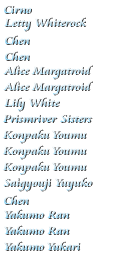
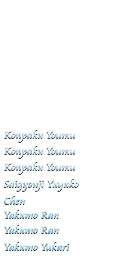
eastern_name_order_hepburn and script_latin support for the result00.png, stringdefs.js and char_def.act.jdiff files (#78)

Changed region(s): [[0.0312, 0.0, 0.7188, 1.0], [0.2812, 0.0625, 0.6875, 0.125]]

diff --git a/script_latin/stringdefs.js b/script_latin/stringdefs.js
@@ -55,5 +55,11 @@
 	"th15 Full-width 7": "7",
 	"th15 Full-width 8": "8",
 	"th15 Full-width 9": "9",
-	"th185 titlemsg charname format": "%s    %s    %s"
+	"th185 titlemsg charname format": "%s    %s    %s",
+	"th08 Stats Reimu & Yukari": "Reimu & Yukari",
+        "th08 Stats Marisa & Alice": "Marisa & Alice",
+        "th08 Stats Sakuya & Remilia": "Sakuya & Remilia",
+        "th08 Stats Youmu & Yuyuko": "Youmu & Yuyuko",
+        "th08 Stats Alice": "Alice Margatroid",
+        "th08 Stats Remilia": "Remilia Scarlet"
 }

diff --git a/eastern_name_order_hepburn/stringdefs.js b/eastern_name_order_hepburn/stringdefs.js
@@ -1,0 +1,8 @@
+{
+  "th08 Stats Reimu": "Hakurei Reimu",
+    "th08 Stats Yukari": "Yakumo Yukari",
+    "th08 Stats Marisa": "Kirisame Marisa",
+    "th08 Stats Sakuya": "Izayoi Sakuya",
+    "th08 Stats Youmu": "Konpaku Youmu",
+    "th08 Stats Yuyuko": "Saigyouji Yuyuko"
+}
